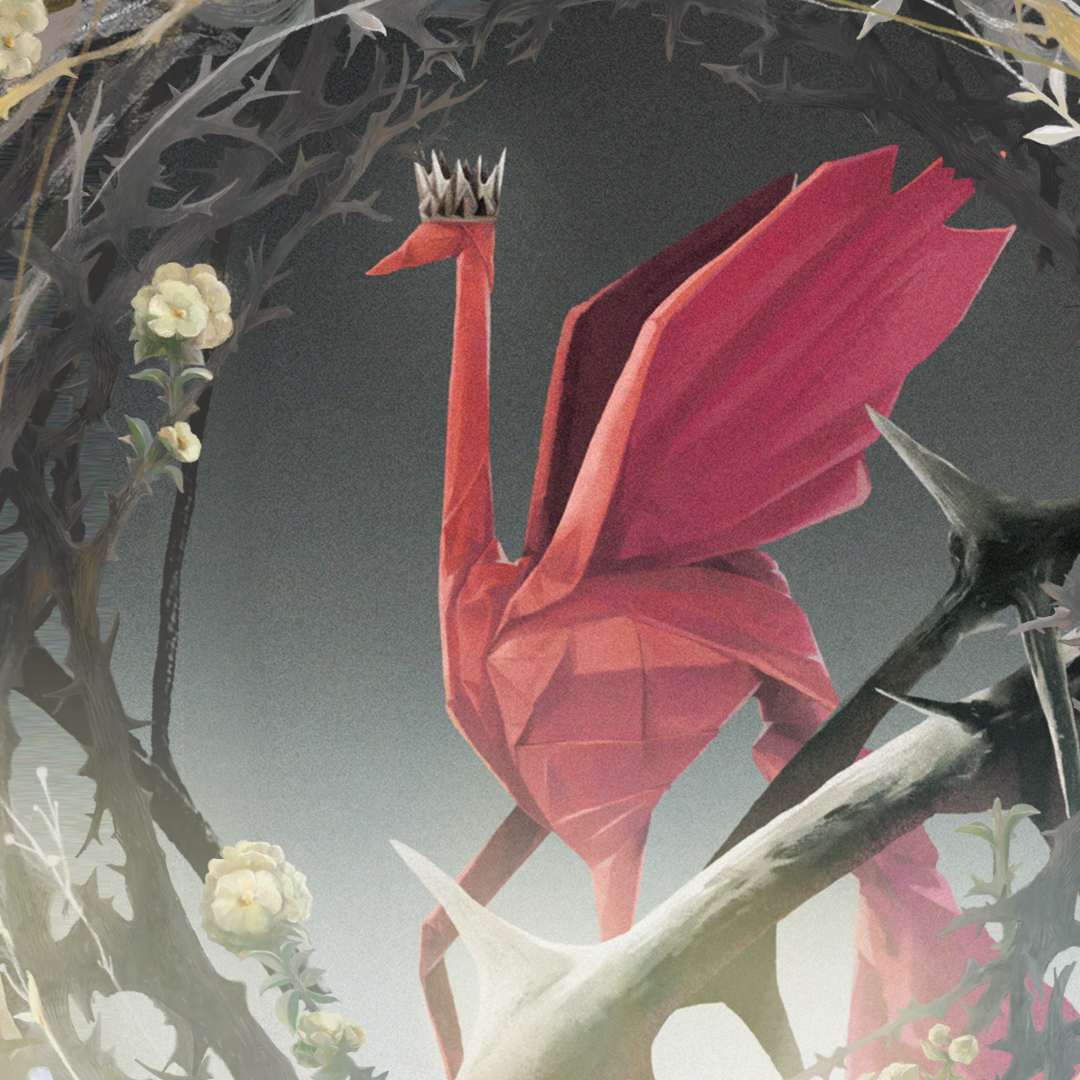
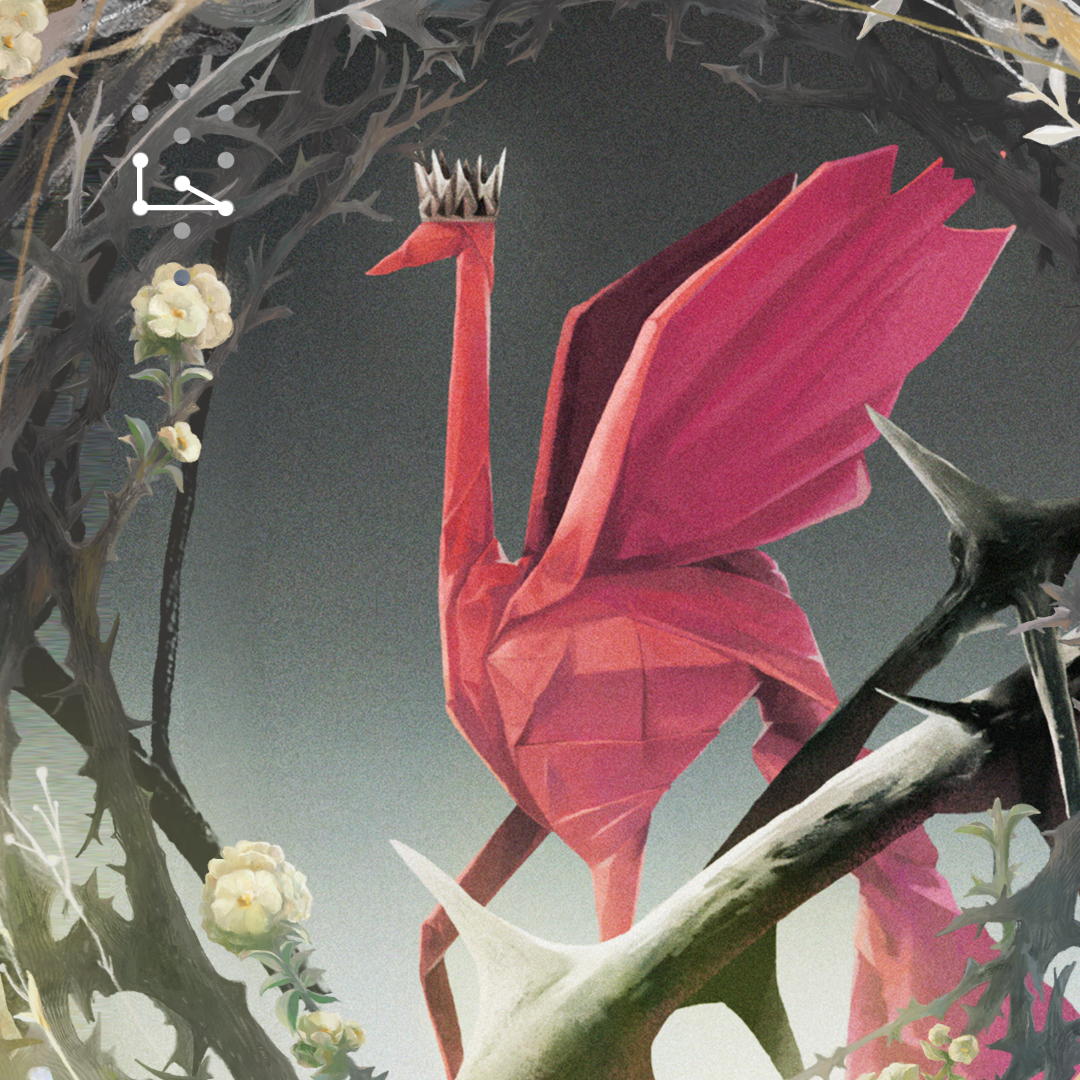
update hero images, double quote size

diff --git a/index.html b/index.html
@@ -66,7 +66,7 @@ body {
   line-height: 1.4;
   pointer-events: none;
   max-width: 70%;
-  font-size: clamp(0.72rem, 3vw, 0.92rem);
+  font-size: clamp(1.44rem, 6vw, 1.84rem);
 }
 
 /* ══ WORKS ══ */
@@ -179,7 +179,7 @@ footer {
 
   .hero-title {
     bottom: 28px; left: 36px;
-    font-size: clamp(0.8rem, 1.4vw, 1.1rem);
+    font-size: clamp(1.6rem, 2.8vw, 2.2rem);
     max-width: 40%;
     letter-spacing: 0.12em;
   }